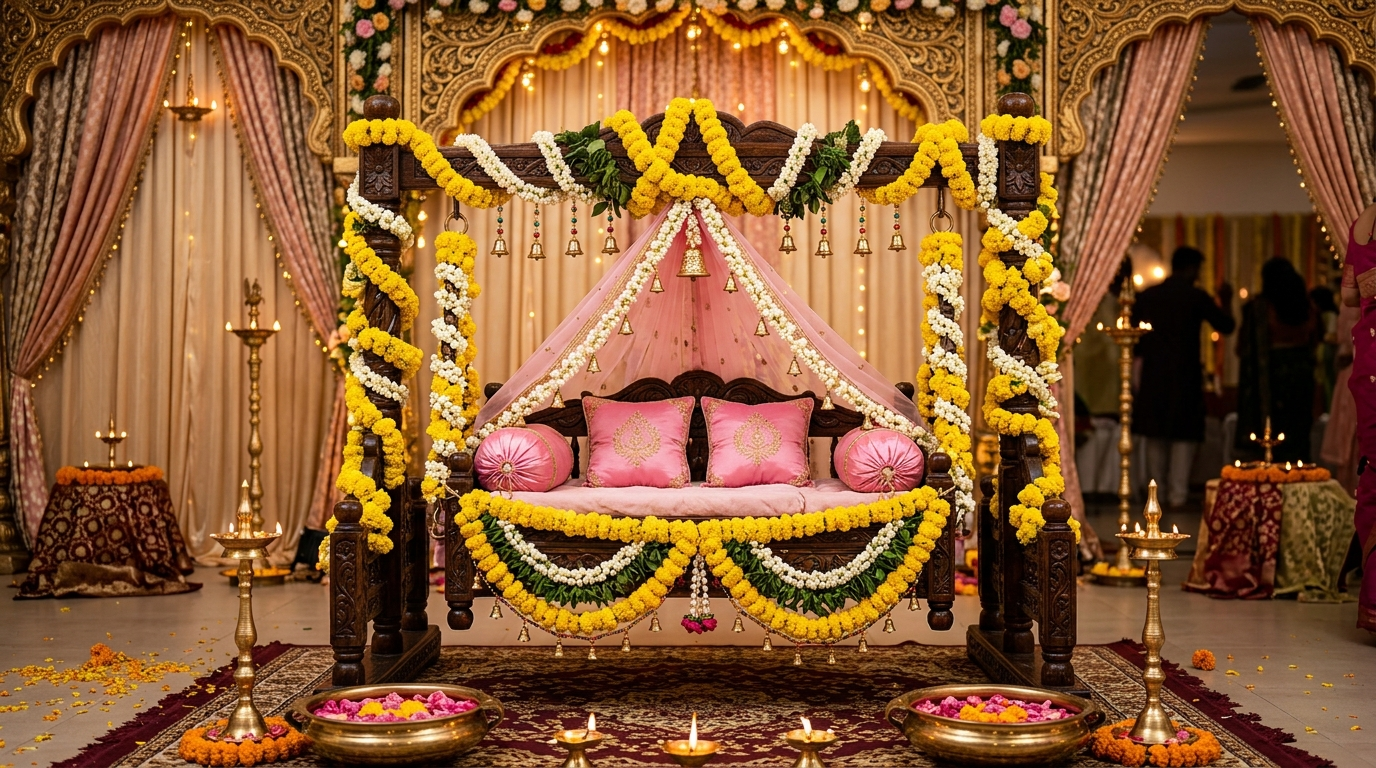
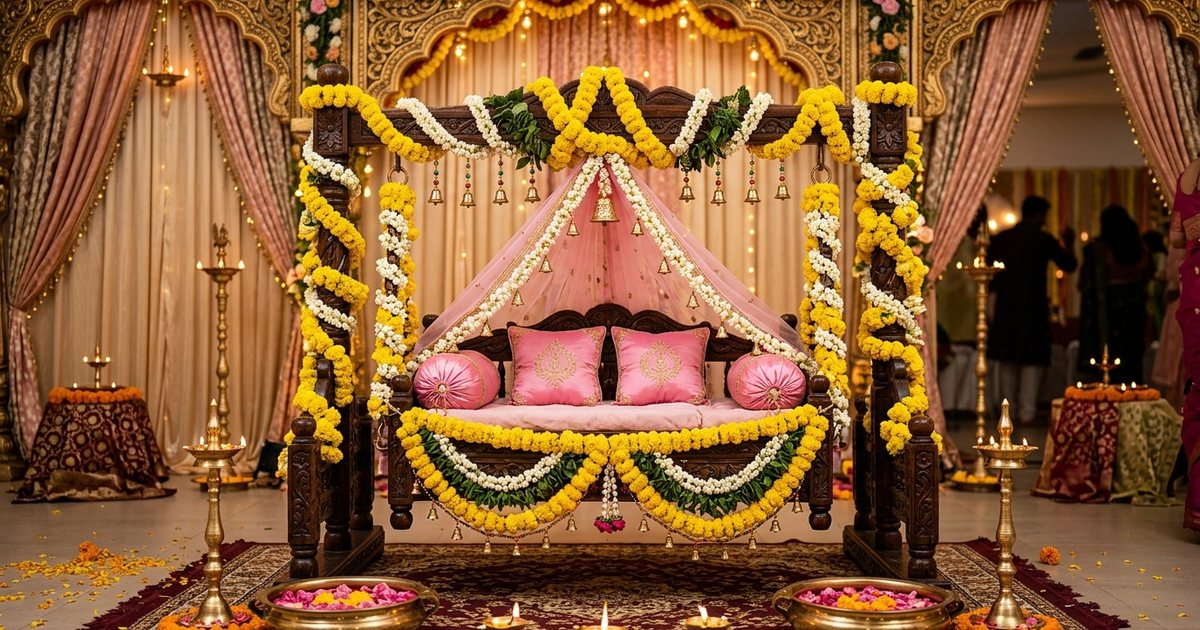
fix(seo): optimize og-image to 1200x630 and 221KB for WhatsApp rich preview

diff --git a/index.html b/index.html
@@ -19,9 +19,10 @@
     <meta property="og:image:secure_url" content="https://yashwant-rangrej.github.io/Naming_Ceremony/og-image.jpg" />
     <meta property="og:image:type" content="image/jpeg" />
     <meta property="og:image:width" content="1200" />
-    <meta property="og:image:height" content="675" />
+    <meta property="og:image:height" content="630" />
     <meta property="og:image:alt" content="Traditional Indian Baby Cradle decorated with fresh marigolds and jasmine for the Namakarana Ceremony" />
     <meta property="og:locale" content="en_IN" />
+    <link rel="image_src" href="https://yashwant-rangrej.github.io/Naming_Ceremony/og-image.jpg" />
 
     <!-- Twitter Card -->
     <meta name="twitter:card" content="summary_large_image" />
